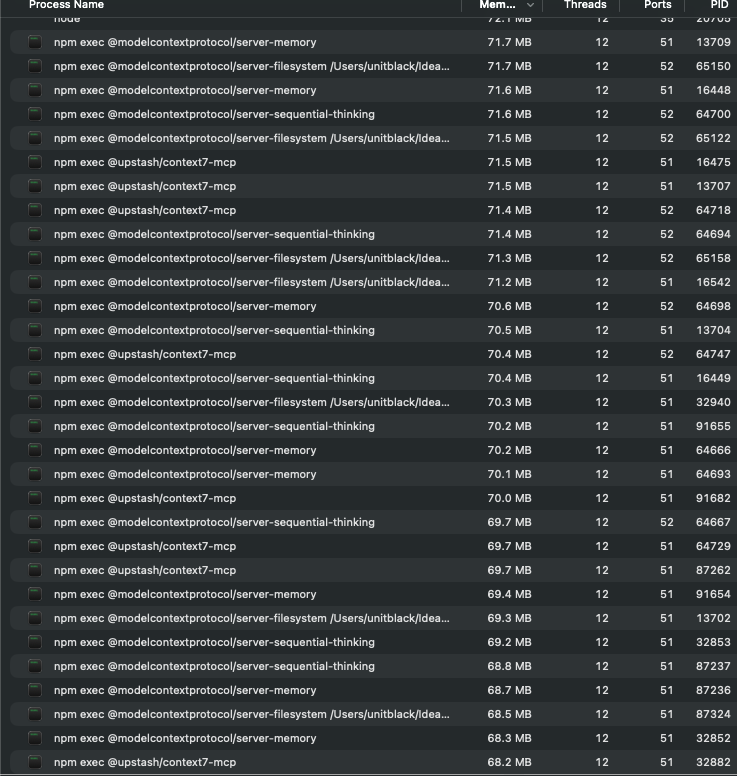
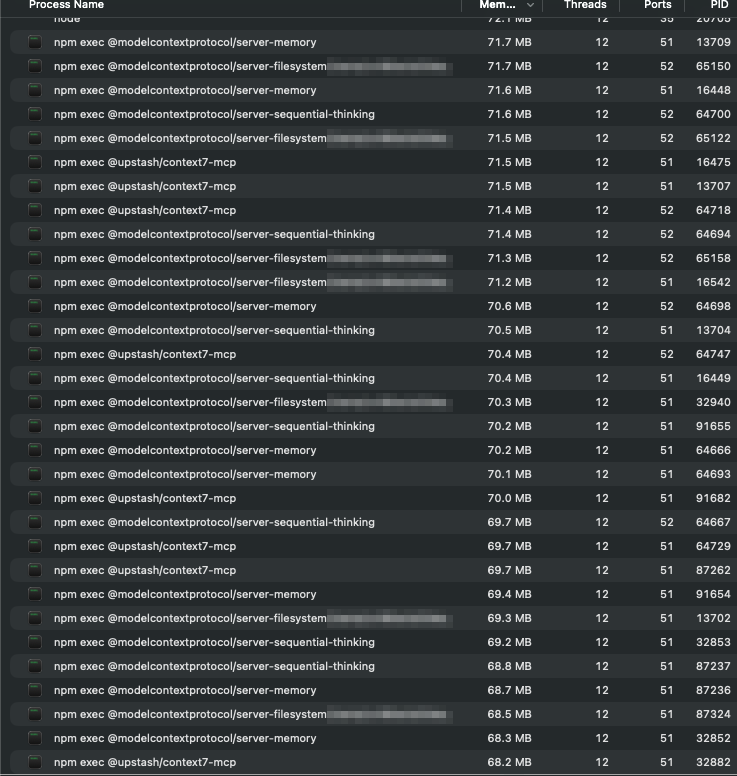
fix: remove company details from the blog posts
- Pixelate the local home path in the MCP process screenshot, which is
  also the post's social image.
- Replace the real send volume in BullMQ part 3 with an assumed one:
  millions a day and tens to hundreds of millions over a few weeks.
  Scale the yearly row counts and part 4's per-day object count to
  match, and state that peak costs count 11 million PUTs a month.
- Drop the leftover TODO comment from BullMQ part 2.

diff --git a/src/content/blog/ko/bullmq-notification-part-3-delivery-history.md b/src/content/blog/ko/bullmq-notification-part-3-delivery-history.md
@@ -206,7 +206,7 @@ UNIQUE KEY uk_message_id_status (message_id, status)
 
 #### 인스턴스를 하나 더 소유하게 된다
 
-운영 DB에 같이 두는 선택지가 먼저 있었다. 조인도 되고 외래 키도 걸 수 있다. 물량 때문에 접었다. 정기신고 기간에 일 평균 62만 건, 기간 합계 2,600만 건이 나갔고 그것도 시간대별로 고르지 않게 몰린다. 1년이면 메시지 행이 4,000\~5,000만, 상태 행은 1억을 넘긴다. 이 쓰기가 운영 트랜잭션과 buffer pool과 IOPS를 두고 경합한다.
+운영 DB에 같이 두는 선택지가 먼저 있었다. 조인도 되고 외래 키도 걸 수 있다. 물량 때문에 접었다. 발송이 특정 시기에 몰리는 서비스라고 해 보자. 그 시기에는 하루 수백만 건, 몇 주 동안 수천만에서 수억 건이 나가고 그것도 시간대별로 고르지 않게 몰린다. 이 규모라면 1년에 메시지 행이 수억, 상태 행은 그 두 배를 넘긴다. 이 쓰기가 운영 트랜잭션과 buffer pool과 IOPS를 두고 경합한다.
 
 분리해야 하는 이유가 하나 더 있다. 위 표의 `flush_log=2`는 <strong>인스턴스 전역 설정</strong>이라 테이블별로 나눌 수 없다. 이력은 1초쯤 유실돼도 provider에서 백필하면 되지만 결제는 아니다. 두 워크로드가 한 인스턴스에 있으면 이력만 완화하는 선택 자체가 성립하지 않는다.
 
@@ -267,7 +267,7 @@ UNIQUE KEY uk_message_id_status (message_id, status)
 
 앞의 두 안과 나란히 놓기는 했지만 성격이 조금 다르다. S3에 넣는 방식만 바꾸는 것이라 <strong>직렬이든 fan-out이든 그 앞단에 끼워 넣을 수 있다.</strong>
 
-끼우는 이유는 비용이다. S3에는 여러 객체를 한 번에 올리는 API가 없어서 단건 발송이 많으면 job 하나가 객체 하나가 된다. 피크에 월 1,100만 개가 넘는 PUT이 발생하고 요금이 그대로 따라온다.
+끼우는 이유는 비용이다. S3에는 여러 객체를 한 번에 올리는 API가 없어서 단건 발송이 많으면 job 하나가 객체 하나가 된다. 앞에서 가정한 규모라면 피크 달에 PUT이 1,100만 개를 넘고 요금이 그대로 따라온다.
 
 
 | 피크 기준 월 비용       | S3 직접 PUT | Firehose 경유 |
@@ -303,7 +303,7 @@ UNIQUE KEY uk_message_id_status (message_id, status)
 | 피크 월 비용 | \~$360                | \~$79          | \~$92         | \~$7          |
 
 
-비용은 전부 S3 직접 PUT 기준이다. Firehose 열은 직렬에 끼웠을 때이고, fan-out에 끼우면 평시 \~$8, 피크 \~$21이 된다.
+비용은 전부 S3 직접 PUT 기준이고, 피크는 PUT 1,100만 개로 셈했다. Firehose 열은 직렬에 끼웠을 때이고, fan-out에 끼우면 평시 \~$8, 피크 \~$21이 된다.
 
 피크에서 순서가 뒤집히는 게 눈에 띈다. 평시에는 직렬이 관계형 DB보다 여섯 배 싸다. 피크로 가면 PUT 요청이 비용의 대부분을 차지해 $79까지 올라 관계형 DB와 비슷해진다. 그 구간에서 Firehose를 끼우면 다시 열 배 가까이 내려간다. 관계형 DB는 반대로 물량이 늘수록 인스턴스를 키워야 해서 격차가 벌어진다.
 

diff --git a/src/content/blog/en/bullmq-notification-part-3-delivery-history.md b/src/content/blog/en/bullmq-notification-part-3-delivery-history.md
@@ -206,7 +206,7 @@ Hence a sweep. Every 10 minutes, over the last 24 hours, find rows 30 minutes pa
 
 #### You end up owning another instance
 
-Putting it in the operational DB was the first option on the table. Joins work and foreign keys work. Volume killed it. During the regular tax-filing season we sent an average of 620,000 messages a day, 26 million over the period, clustered unevenly by hour. In a year that is 40–50 million message rows and over 100 million status rows. Those writes compete with operational transactions for buffer pool and IOPS.
+Putting it in the operational DB was the first option on the table. Joins work and foreign keys work. Volume killed it. Say the service sends most of its messages in one busy season. During that season it sends millions of messages a day and tens to hundreds of millions over a few weeks, clustered unevenly by hour. At that scale a year comes to hundreds of millions of message rows and more than twice as many status rows. Those writes compete with operational transactions for buffer pool and IOPS.
 
 There is one more reason to separate. `flush_log=2` in the table above is <strong>an instance-wide setting</strong> and cannot be split per table. History can lose a second of writes — the provider can backfill it — but payments cannot. With both workloads on one instance, relaxing durability only for history is not even an available choice.
 
@@ -267,7 +267,7 @@ This option fits when failure rates must sit on a real-time dashboard or anomali
 
 It sits alongside the previous two but is a slightly different kind of thing. It only changes how data gets into S3, so <strong>it can be inserted in front of either the serial or the fan-out structure.</strong>
 
-The reason to insert it is cost. S3 has no API for uploading multiple objects at once, so with many single-recipient sends, one job becomes one object. At peak that is over 11 million PUTs a month, and the bill follows.
+The reason to insert it is cost. S3 has no API for uploading multiple objects at once, so with many single-recipient sends, one job becomes one object. At the scale assumed above, a peak month passes 11 million PUTs, and the bill follows.
 
 
 | Monthly cost at peak | Direct S3 PUT | Via Firehose |
@@ -303,7 +303,7 @@ This option fits when S3 is pure archive, never queried directly and never the b
 | Monthly cost, peak | \~$360 | \~$79 | \~$92 | \~$7 |
 
 
-Costs all assume direct S3 PUTs. The Firehose column is with it inserted into the serial option; inserted into fan-out it becomes \~$8 baseline and \~$21 at peak.
+Costs all assume direct S3 PUTs, and the peak figures count 11 million PUTs a month. The Firehose column is with it inserted into the serial option; inserted into fan-out it becomes \~$8 baseline and \~$21 at peak.
 
 The flip at peak stands out. At baseline the serial option is six times cheaper than the relational DB. Toward peak, PUT requests dominate the bill and it climbs to $79, close to the relational DB. Insert Firehose in that regime and it drops nearly tenfold again. The relational DB moves the other way: more volume means a bigger instance, and the gap widens.
 

diff --git a/src/content/blog/en/bullmq-notification-part-2-rate-limit.md b/src/content/blog/en/bullmq-notification-part-2-rate-limit.md
@@ -178,8 +178,6 @@ That leaves three options, to be considered top down.
 
 We could not split the account, so we took the second. Given that a divided quota has to be set below an even split and cannot be verified, the third is the option to keep for last.
 
-<!-- TODO: whether we actually unified the worker, or solved it with an allocation / separate accounts. Anything from onboarding the other team goes here -->
-
 One clarification is worth making. Chapter 10 also mentions rate limiting, but it is a <strong>different kind of limit</strong>. There it means capping how often a single user receives notifications, because sending too often makes people turn notifications off entirely. That is a user-fatigue concern, not an external quota one. The rate limit in this post belongs to chapter 4.
 
 ## Summary
